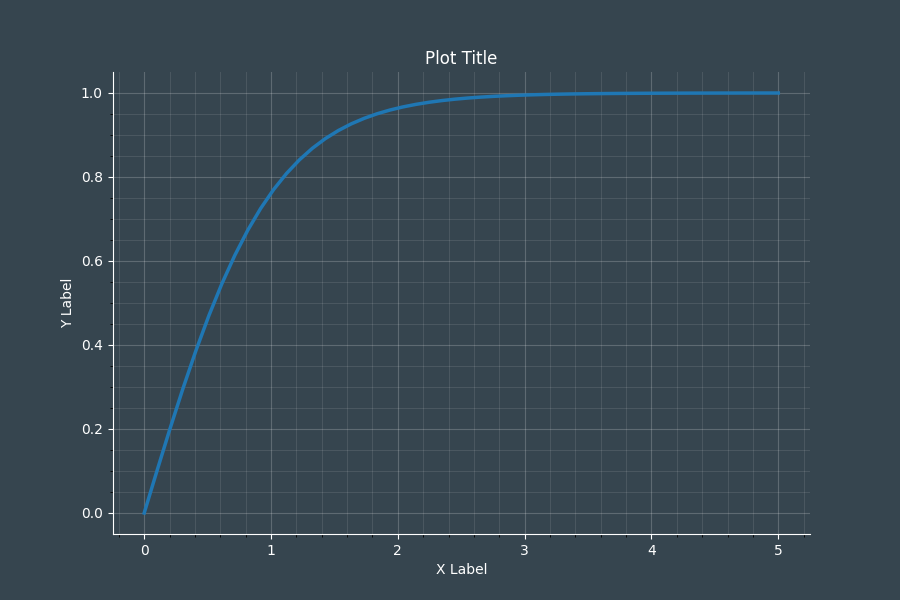
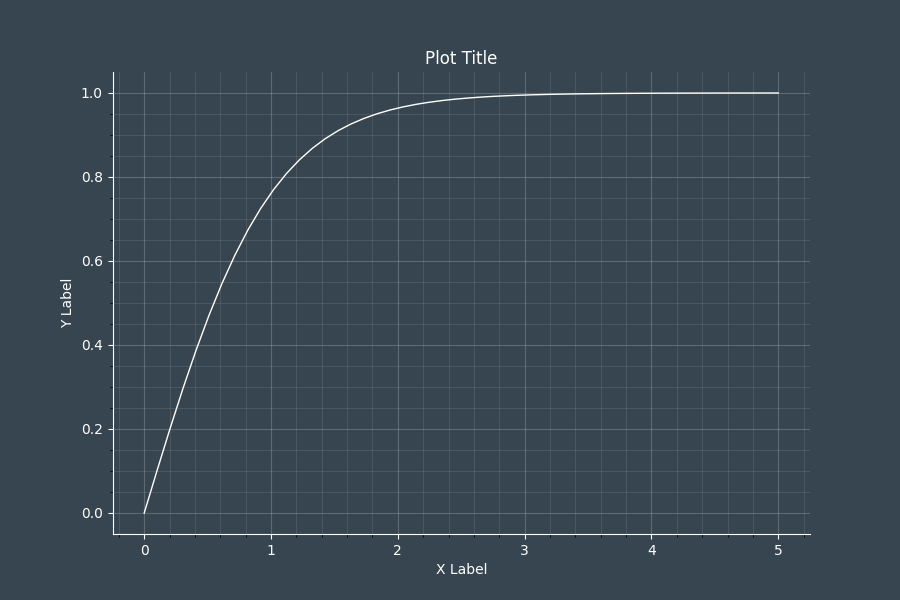
changing line color

diff --git a/elegant_plot/elegant_plot.py b/elegant_plot/elegant_plot.py
@@ -16,12 +16,16 @@ def configure_axis(axis, grid=True):
 
     axis.xaxis.label.set_color('white')
     axis.yaxis.label.set_color('white')
-    ax.title.set_color('white')
+    axis.title.set_color('white')
+
+    # Uncomment the following lines to fix the spines at the origin
+    # axis.spines.left.set_position('zero')
+    # axis.spines.bottom.set_position('zero')
 
     if grid:
-        ax.grid(visible=True, which='major', color='white', linestyle='-', alpha=0.2)
-        ax.minorticks_on()
-        ax.grid(visible=True, which='minor', color='white', linestyle='-', alpha=0.1)
+        axis.grid(visible=True, which='major', color='white', linestyle='-', alpha=0.2)
+        axis.minorticks_on()
+        axis.grid(visible=True, which='minor', color='white', linestyle='-', alpha=0.1)
 
 
 x = np.linspace(0, 5)
@@ -30,7 +34,7 @@ y = np.tanh(x)
 fig = plt.figure(facecolor='#36454f', figsize=(9, 6))
 ax = fig.add_subplot()
 
-ax.plot(x, y, linewidth=2.5)
+ax.plot(x, y, linewidth=1, c='w')
 
 ax.set_title('Plot Title')
 ax.set_xlabel('X Label')
